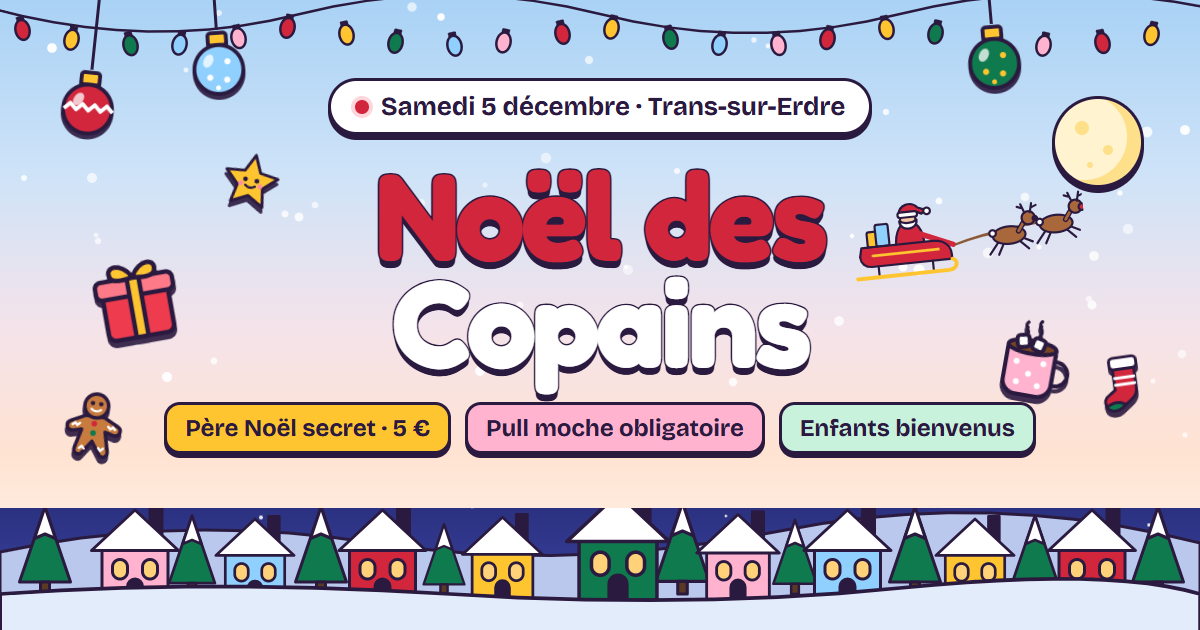
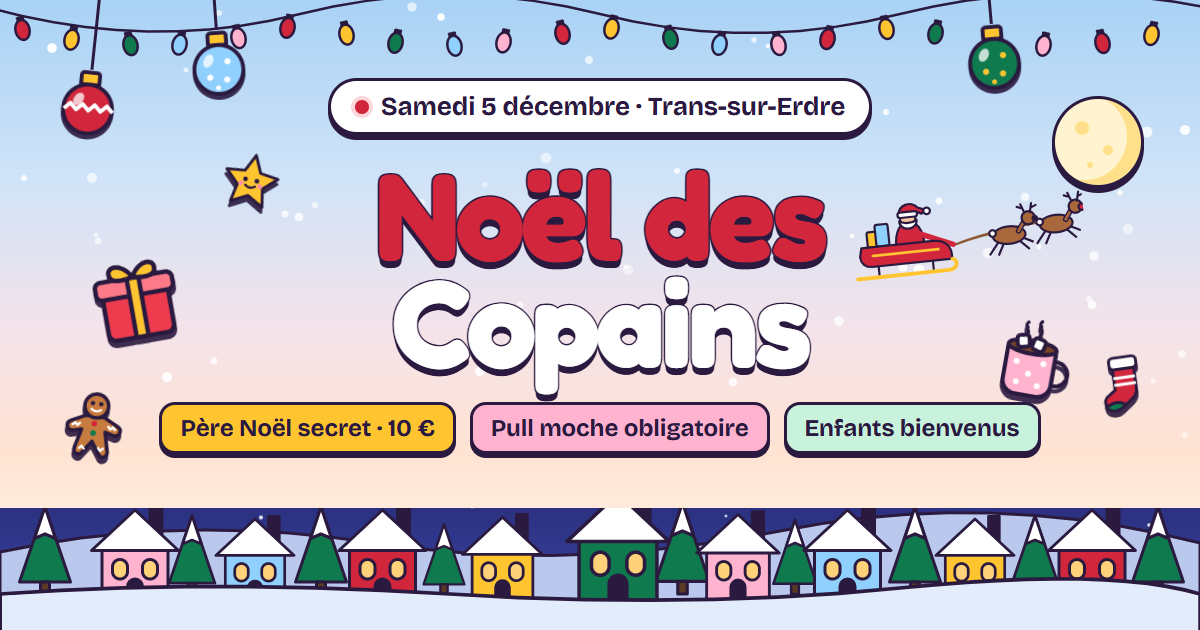
Budget 10 € (site et aperçu), vanne de Florian corrigée

Changed region(s): [[0.1233, 0.6333, 0.8942, 0.7238]]

diff --git a/index.html b/index.html
@@ -6,10 +6,10 @@
 <title>Noël des Copains 2026</title>
 <meta name="description" content="Samedi 5 décembre à Trans-sur-Erdre. Allume ta maison dans le village, découvre ton Père Noël secret et prépare ton pire pull.">
 <meta property="og:title" content="Noël des Copains · samedi 5 décembre">
-<meta property="og:description" content="Allume ta maison dans le village, découvre ton Père Noël secret (5 € max) et sors ton pire pull.">
+<meta property="og:description" content="Allume ta maison dans le village, découvre ton Père Noël secret (10 € max) et sors ton pire pull.">
 <meta property="og:type" content="website">
 <meta property="og:url" content="https://plepicier.github.io/noel-copains/">
-<meta property="og:image" content="https://plepicier.github.io/noel-copains/og.png">
+<meta property="og:image" content="https://plepicier.github.io/noel-copains/og.png?v=2">
 <meta property="og:image:width" content="1200">
 <meta property="og:image:height" content="630">
 <meta property="og:image:alt" content="Noël des Copains, samedi 5 décembre à Trans-sur-Erdre : un village sous la neige, un traîneau et des guirlandes">
@@ -624,7 +624,7 @@ footer .sig em{color:var(--green)}
   <div class="hero-in">
     <div class="chip glass in" style="--i:0"><span class="dot"></span><span id="chipTxt"></span></div>
     <h1 id="title"></h1>
-    <p class="lead in" style="--i:3">Une soirée, un village à allumer, un Père Noël secret à <span id="budgetLead">5</span> € et le pire pull de ta garde-robe. Enfants bienvenus.</p>
+    <p class="lead in" style="--i:3">Une soirée, un village à allumer, un Père Noël secret à <span id="budgetLead">10</span> € et le pire pull de ta garde-robe. Enfants bienvenus.</p>
     <div class="cta in" style="--i:4">
       <a href="#reponse" class="btn">Je réponds <svg class="ic"><use href="#i-arrow"/></svg></a>
       <a href="#village" class="btn alt">Voir le village</a>

diff --git a/config.js b/config.js
@@ -10,7 +10,7 @@ window.NOEL_CONFIG = {
   finFete: "2026-12-06T03:00:00+01:00",
   lieu: "Trans-sur-Erdre",
   dateLimite: "2026-11-22T23:59:00+01:00",
-  budget: 5,
+  budget: 10,
   organisateurs: "Manon, Félix & Pierre",
 
   // Les foyers connus : quand quelqu'un tape son prénom, le site le reconnaît
@@ -27,8 +27,8 @@ window.NOEL_CONFIG = {
     { adultes: ["Valérien", "Charlotte"] },
     { adultes: ["Ségolène", "Valentin"], enfants: ["Louison", "Lucile"] },
     { adultes: ["Erwan", "Isaure"], enfants: ["Esmée", "Maia"] },
-    { adultes: ["Manon"], message: "Encore toute seule cette année ?" },
-    { adultes: ["Florian"], message: "Encore toute seule cette année ?" },
+    { adultes: ["Manon"], message: "Encore tout seul cette année ?" },
+    { adultes: ["Florian"], message: "Encore tout seul cette année ?" },
     { adultes: ["Pierre"] },
     { adultes: ["Thomas"] }
   ]
